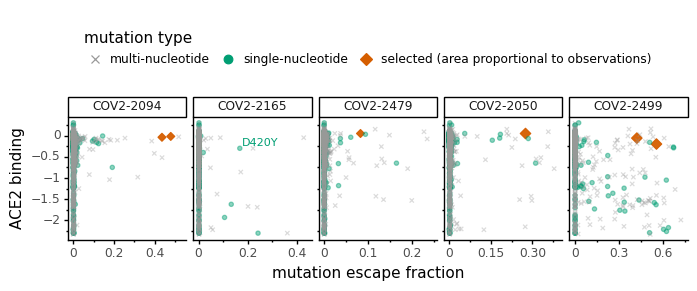
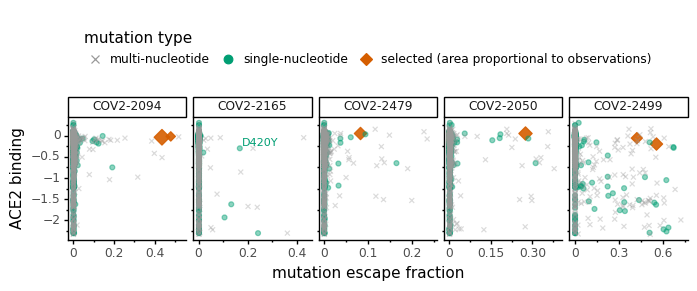
updated escape selections scatter with new sequencing data from Crowe lab

diff --git a/results/summary/escape_selections.md b/results/summary/escape_selections.md
@@ -211,7 +211,7 @@ display(HTML(selection_df.to_html(index=False)))
       <td>378</td>
       <td>K</td>
       <td>E</td>
-      <td>1</td>
+      <td>7</td>
     </tr>
     <tr>
       <td>COV2-2094</td>
@@ -225,21 +225,21 @@ display(HTML(selection_df.to_html(index=False)))
       <td>484</td>
       <td>E</td>
       <td>K</td>
-      <td>1</td>
+      <td>3</td>
     </tr>
     <tr>
       <td>COV2-2050</td>
       <td>484</td>
       <td>E</td>
       <td>K</td>
-      <td>2</td>
+      <td>4</td>
     </tr>
     <tr>
       <td>COV2-2499</td>
       <td>446</td>
       <td>G</td>
       <td>D</td>
-      <td>2</td>
+      <td>3</td>
     </tr>
     <tr>
       <td>COV2-2499</td>
@@ -359,7 +359,7 @@ display(HTML(escape_dms_selection.head().to_html(index=False)))
       <td>-0.11</td>
       <td>0</td>
       <td>NaN</td>
-      <td>2</td>
+      <td>4</td>
       <td>False</td>
     </tr>
     <tr>
@@ -374,7 +374,7 @@ display(HTML(escape_dms_selection.head().to_html(index=False)))
       <td>-1.26</td>
       <td>0</td>
       <td>NaN</td>
-      <td>2</td>
+      <td>4</td>
       <td>False</td>
     </tr>
     <tr>
@@ -389,7 +389,7 @@ display(HTML(escape_dms_selection.head().to_html(index=False)))
       <td>-0.44</td>
       <td>0</td>
       <td>NaN</td>
-      <td>2</td>
+      <td>4</td>
       <td>False</td>
     </tr>
     <tr>
@@ -404,7 +404,7 @@ display(HTML(escape_dms_selection.head().to_html(index=False)))
       <td>-0.31</td>
       <td>0</td>
       <td>NaN</td>
-      <td>2</td>
+      <td>4</td>
       <td>False</td>
     </tr>
     <tr>
@@ -419,7 +419,7 @@ display(HTML(escape_dms_selection.head().to_html(index=False)))
       <td>-0.70</td>
       <td>0</td>
       <td>NaN</td>
-      <td>2</td>
+      <td>4</td>
       <td>False</td>
     </tr>
   </tbody>
@@ -484,8 +484,8 @@ p = (ggplot(df) +
                show_legend=False) +
      facet_wrap('~ antibody', nrow=1, scales='free_x') +
      scale_color_manual(values=[CBPALETTE[0], CBPALETTE[3], CBPALETTE[6]]) +
-     scale_alpha_manual(values=[0.35, 0.45, 0.95]) +
-     scale_size_area(max_size=2.5) +
+     scale_alpha_manual(values=[0.35, 0.45, 0.9]) +
+     scale_size(range=(1.5, 4)) +
      scale_shape_manual(values=['x', 'o', 'D']) +
      theme_classic() +
      scale_x_continuous(name='mutation escape fraction',
@@ -523,6 +523,16 @@ p.save(plotfile, verbose=False)
 
 ![png](escape_selections_files/escape_selections_17_3.png)
 
+
+
+```python
+?scale_size
+```
+
+
+```python
+?scale_size_manual
+```
 
 
 ```python
